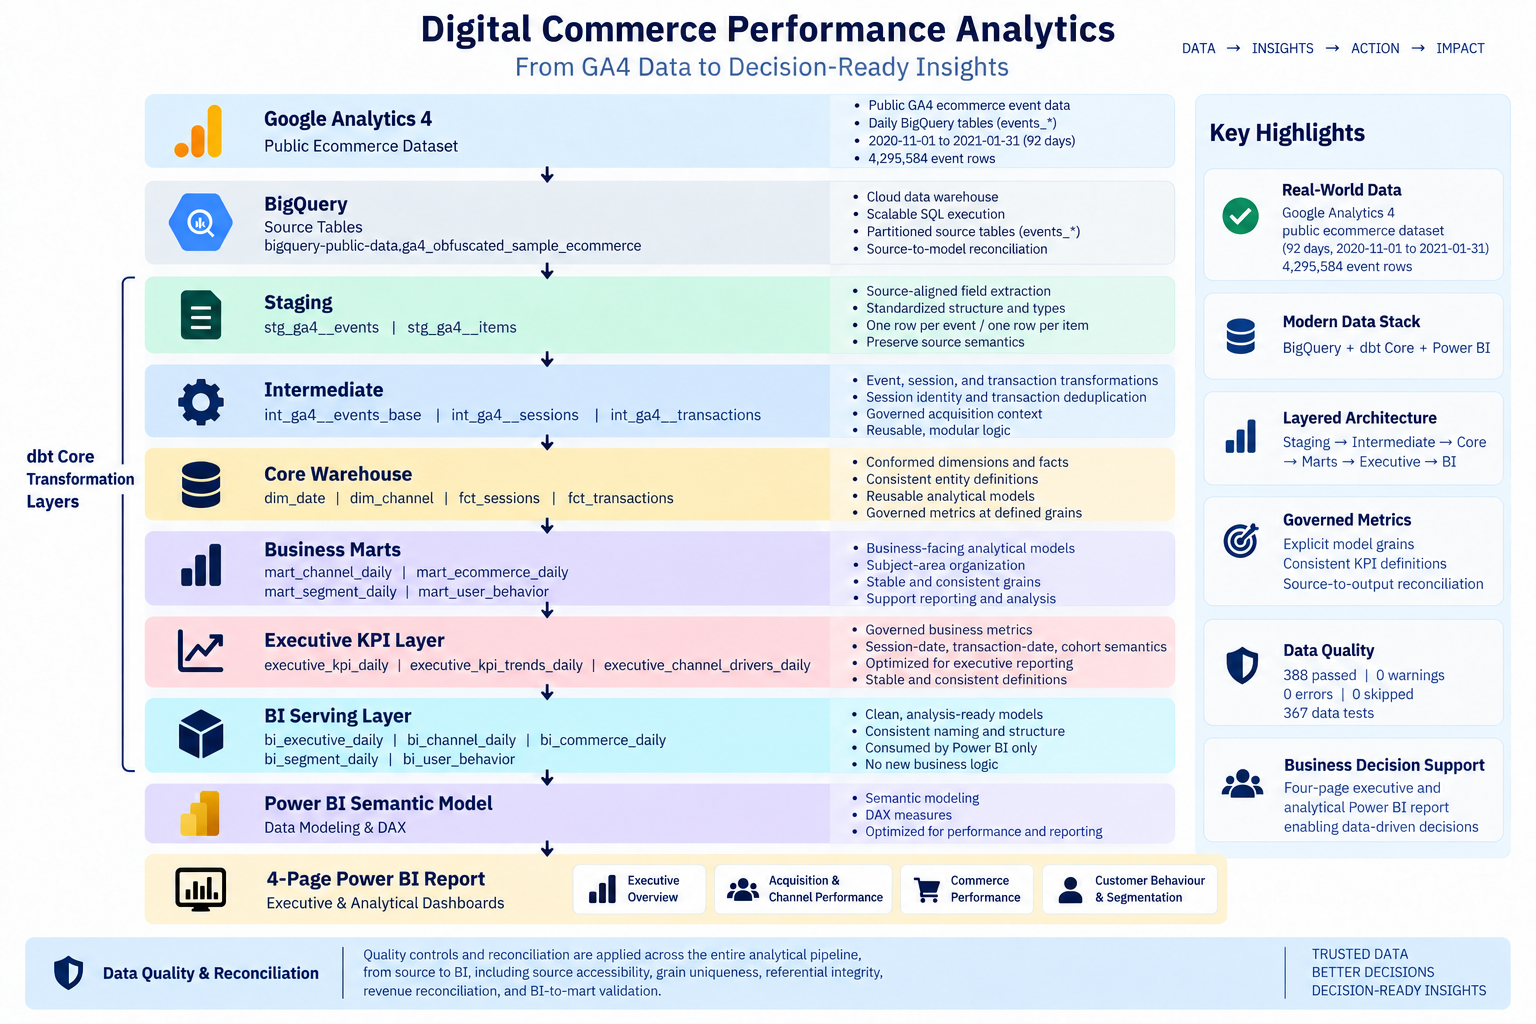
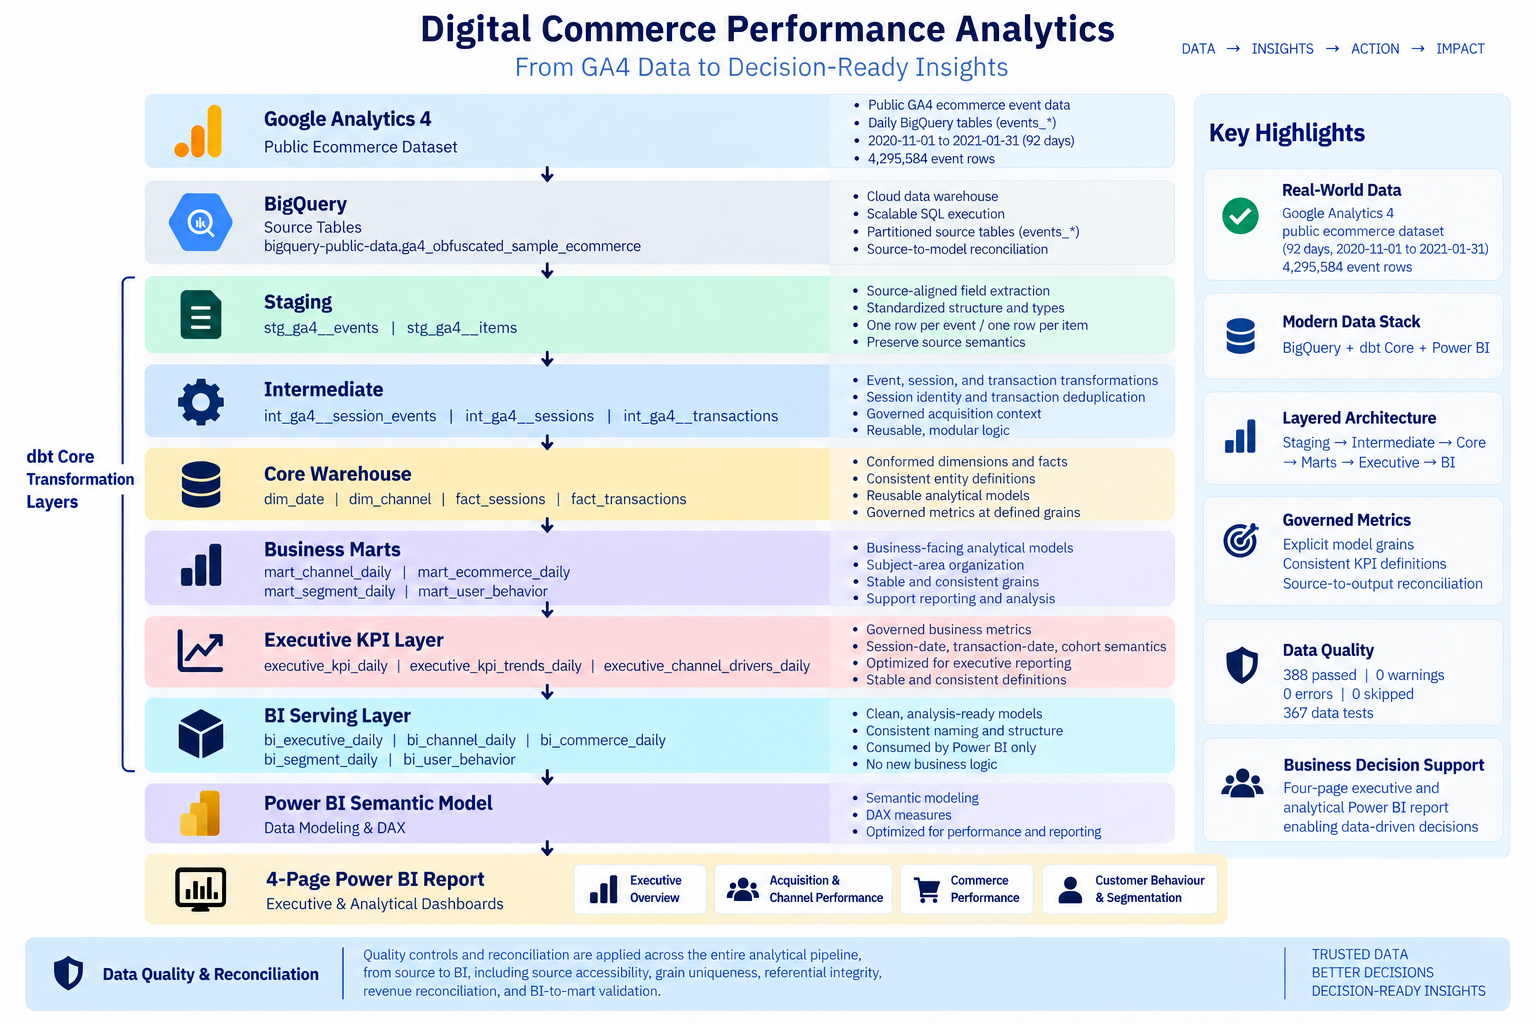
fix: correct release documentation references

diff --git a/CONTRIBUTING.md b/CONTRIBUTING.md
@@ -111,7 +111,12 @@ Detailed artifact rules are maintained in:
 
 ```text
 docs/project_management/development_workflow.md
-| `docs/project_management/reproduction_guide.md` | Environment setup, BigQuery/dbt configuration, execution, validation, and Power BI reproduction guidance |
+```
+
+Environment setup and reproduction guidance is maintained in:
+
+```text
+docs/project_management/reproduction_guide.md
 ```
 
 ---

diff --git a/README.md b/README.md
@@ -129,7 +129,7 @@ Reusable analytical entities establish deterministic session and transaction log
 
 Primary models:
 
-- `int_ga4__events_base`
+- `int_ga4__session_events`
 - `int_ga4__sessions`
 - `int_ga4__transactions`
 
